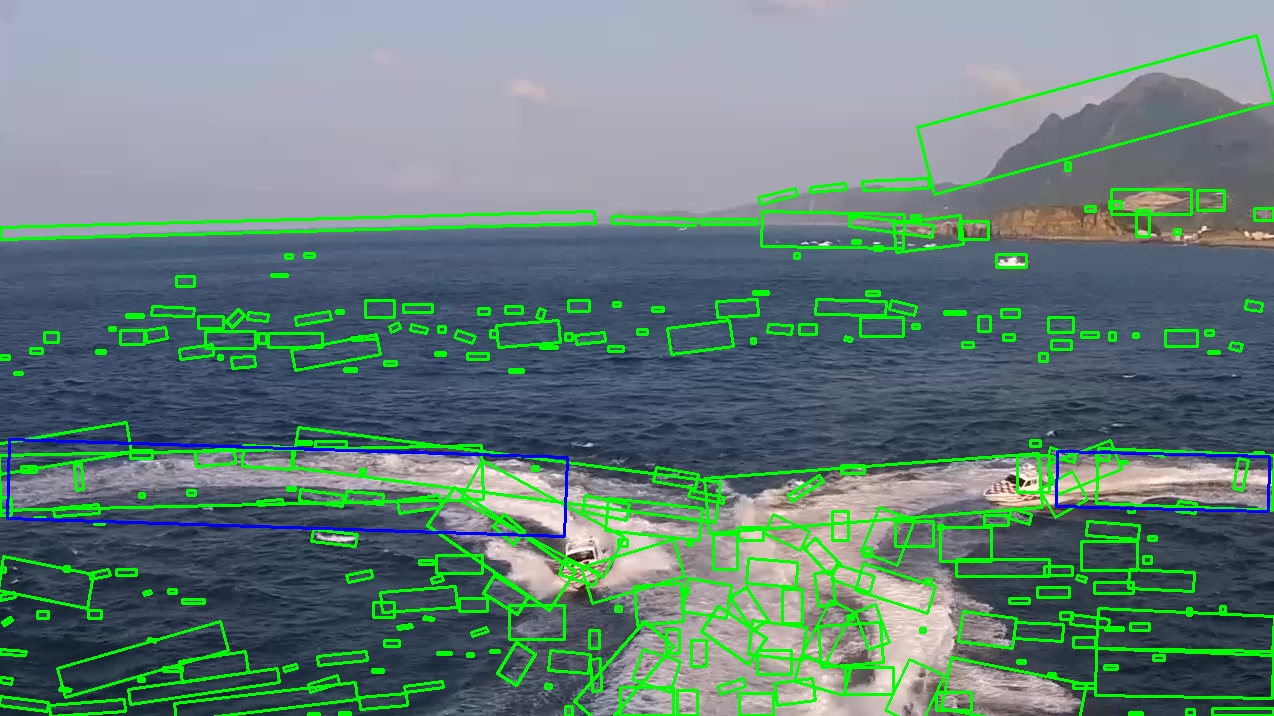
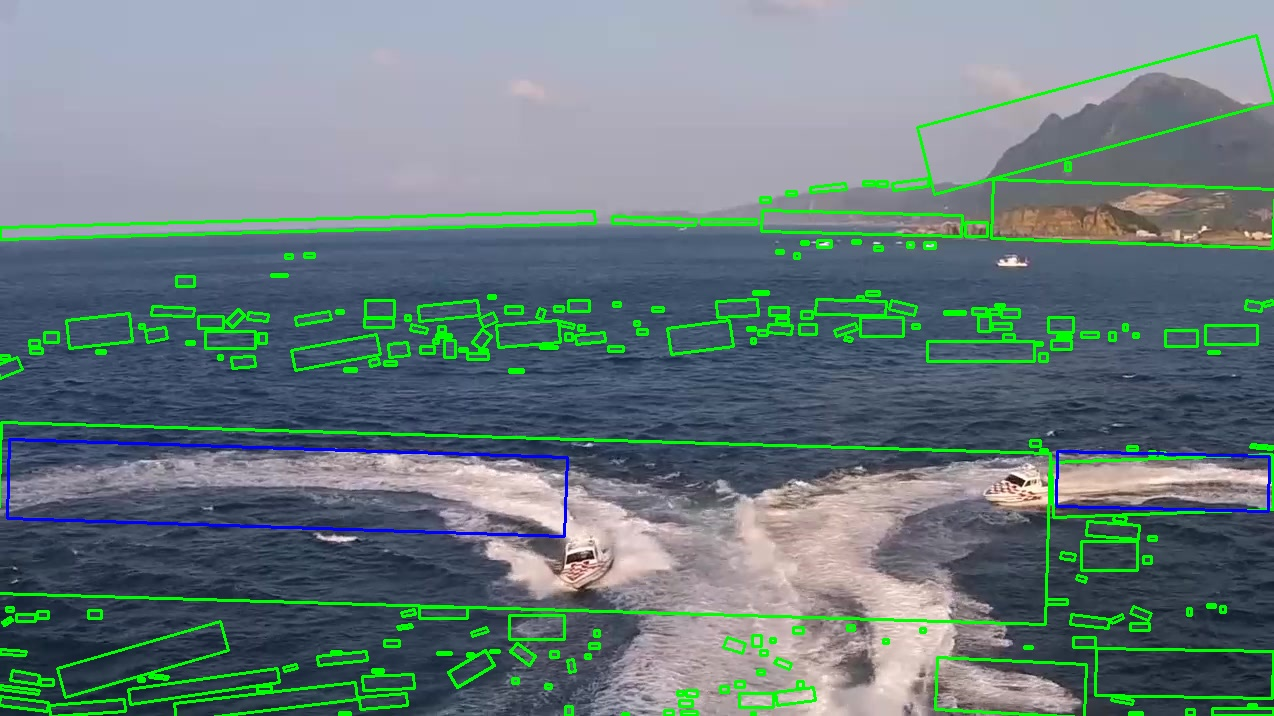
traditional method fix, overlapping filter

diff --git a/stern_wave_yolo_n_tradition.py b/stern_wave_yolo_n_tradition.py
@@ -125,41 +125,160 @@ class BoatTracker:
         return boxes
 
     # Box_B Merge
-    def merge_nearby_boxes(self, boxes, dist_thresh=30):
+    def _iou(self, boxA, boxB):
         """
-        Merge nearby bounding boxes based on center distance.
-        boxes: list of np.array shape (4,2)
-        dist_thresh: max center distance to be considered same object
+        boxA, boxB: [x1, y1, x2, y2]
         """
-        if len(boxes) == 0:
+        xA = max(boxA[0], boxB[0])
+        yA = max(boxA[1], boxB[1])
+        xB = min(boxA[2], boxB[2])
+        yB = min(boxA[3], boxB[3])
+
+        interW = max(0, xB - xA)
+        interH = max(0, yB - yA)
+        interArea = interW * interH
+
+        areaA = (boxA[2] - boxA[0]) * (boxA[3] - boxA[1])
+        areaB = (boxB[2] - boxB[0]) * (boxB[3] - boxB[1])
+
+        union = areaA + areaB - interArea
+        if union == 0:
+            return 0
+
+        return interArea / union
+    
+    def rotated_overlap(self, box1, box2):
+        rect1 = cv2.minAreaRect(box1)
+        rect2 = cv2.minAreaRect(box2)
+        retval, _ = cv2.rotatedRectangleIntersection(rect1, rect2)
+        return retval != cv2.INTERSECT_NONE
+
+    def suppress_overlaps(self, boxes):
+        """
+        GLOBAL hard suppression:
+        Iteratively remove overlaps until NONE remain.
+        GUARANTEE: no two output boxes overlap (rotated).
+        """
+        if not boxes:
             return []
 
+        boxes = list(boxes)
+        changed = True
+
+        while changed:
+            changed = False
+            kept = []
+
+            for b in boxes:
+                keep = True
+                for k in kept:
+                    if self.rotated_overlap(b, k):
+                        area_b = cv2.contourArea(b)
+                        area_k = cv2.contourArea(k)
+
+                        if area_b > area_k:
+                            kept = [x for x in kept if not np.array_equal(x, k)]
+                            changed = True
+                        else:
+                            keep = False
+                            changed = True
+                        break
+
+                if keep:
+                    kept.append(b)
+
+            boxes = kept
+
+        return boxes
+
+    def merge_nearby_boxes_iou_distance_unionfind(
+        self,
+        boxes,
+        iou_thresh=0.01,
+        dist_thresh=30
+    ):
+        """
+        Union-Find merge using IoU OR center distance.
+        Designed for wake / wave structures.
+        """
+        n = len(boxes)
+        if n == 0:
+            return []
+
+        # ---- Step 1: AABB + centers ----
+        aabbs = []
+        centers = []
+        for b in boxes:
+            xs = b[:, 0]
+            ys = b[:, 1]
+            aabbs.append([xs.min(), ys.min(), xs.max(), ys.max()])
+            centers.append(np.array([xs.mean(), ys.mean()]))
+
+        # ---- Step 2: Union-Find ----
+        parent = list(range(n))
+
+        def find(x):
+            while parent[x] != x:
+                parent[x] = parent[parent[x]]
+                x = parent[x]
+            return x
+
+        def union(x, y):
+            rx, ry = find(x), find(y)
+            if rx != ry:
+                parent[ry] = rx
+
+        # ---- Step 3: Hybrid merge rule ----
+        for i in range(n):
+            for j in range(i + 1, n):
+                if self.rotated_overlap(boxes[i], boxes[j]):
+                    union(i, j)
+
+        # ---- Step 4: Collect components ----
+        groups = {}
+        for i in range(n):
+            r = find(i)
+            groups.setdefault(r, []).append(boxes[i])
+
+        # ---- Step 5: Merge each component ----
         merged = []
-        used = [False] * len(boxes)
-
-        centers = [np.mean(b, axis=0) for b in boxes]
-
-        for i in range(len(boxes)):
-            if used[i]:
-                continue
-
-            group = [boxes[i]]
-            used[i] = True
-
-            for j in range(i + 1, len(boxes)):
-                if used[j]:
-                    continue
-
-                if np.linalg.norm(centers[i] - centers[j]) < dist_thresh:
-                    group.append(boxes[j])
-                    used[j] = True
-
-            # Merge group into one bounding box
+        for group in groups.values():
             all_points = np.vstack(group)
             rect = cv2.minAreaRect(all_points)
             merged.append(np.int32(cv2.boxPoints(rect)))
 
         return merged
+
+    def debug_iou_neighbors(self, boxes, iou_min=0.01, top_k=5):
+        """
+        Print top IoU neighbors for each box.
+        """
+        n = len(boxes)
+        if n == 0:
+            return
+
+        # convert to AABB
+        aabbs = []
+        for b in boxes:
+            xs, ys = b[:, 0], b[:, 1]
+            aabbs.append([xs.min(), ys.min(), xs.max(), ys.max()])
+
+        print("\n====== IoU NEIGHBOR DEBUG ======")
+        for i in range(n):
+            ious = []
+            for j in range(n):
+                if i == j:
+                    continue
+                iou = self._iou(aabbs[i], aabbs[j])
+                if iou >= iou_min:
+                    ious.append((j, iou))
+
+            ious.sort(key=lambda x: x[1], reverse=True)
+            if ious:
+                print(f"Box {i}: ", end="")
+                for j, iou in ious[:top_k]:
+                    print(f"{j}({iou:.3f}) ", end="")
+                print()
 
     # Box_C
     def get_sunset_boxes(self, img, gray):
@@ -190,29 +309,28 @@ class BoatTracker:
     def run_detection(self, img):
         hsv = cv2.cvtColor(img, cv2.COLOR_BGR2HSV)
         gray = cv2.cvtColor(img, cv2.COLOR_BGR2GRAY)
-        S = hsv[:,:,1]
-        V = hsv[:,:,2]
-        
+        S = hsv[:, :, 1]
+        V = hsv[:, :, 2]
+
         boxes_A = self.get_blue_sea_boxes(img, S, V)
         boxes_B = self.get_loop_and_micro_boxes(img, gray, S)
-        boxes_B = self.merge_nearby_boxes(boxes_B)
         boxes_C = self.get_sunset_boxes(img, gray)
-        
-        final_boxes = []
-        # Priority Merge: A -> B -> C
-        for b in boxes_A: final_boxes.append(b)
-        
-        for b_B in boxes_B:
-            center_B = np.mean(b_B, axis=0)
-            if not any(np.linalg.norm(center_B - np.mean(existing, axis=0)) < 20 for existing in final_boxes):
-                final_boxes.append(b_B)
-                
-        for b_C in boxes_C:
-            center_C = np.mean(b_C, axis=0)
-            if not any(np.linalg.norm(center_C - np.mean(existing, axis=0)) < 20 for existing in final_boxes):
-                final_boxes.append(b_C)
-                
+
+        # merge fragmented wake boxes only
+        boxes_B = self.merge_nearby_boxes_iou_distance_unionfind(
+            boxes_B,
+            iou_thresh=0.01,
+            dist_thresh=30
+        )
+
+        # combine all boxes
+        all_boxes = boxes_A + boxes_B + boxes_C
+
+        # FINAL hard constraint: no overlaps allowed
+        final_boxes = self.suppress_overlaps(all_boxes)
+
         return final_boxes
+
 
 # Method2: Use DL(YOLOv8 OBB)
 
